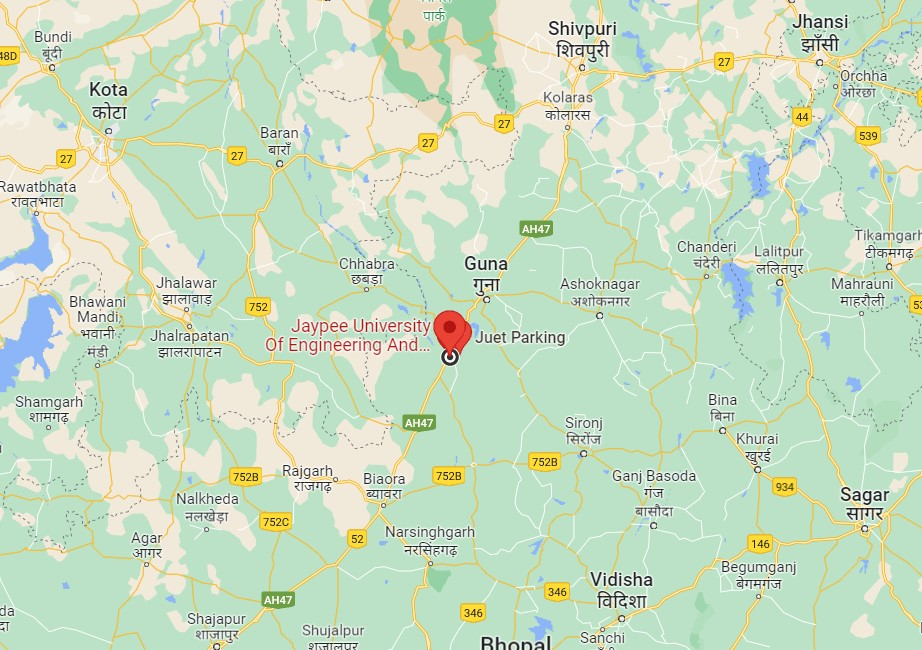
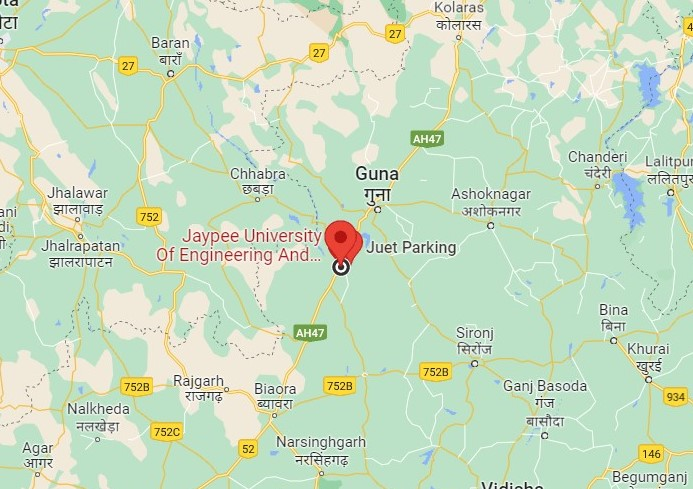
Fixed a few Design structural flaws and made a few visual changes

diff --git a/CSS/home.css b/CSS/home.css
@@ -1,9 +1,17 @@
 /* * { border: 1px solid white; } */
 
 /* Landing Image */
-.land-image {
+/* .land-image {
     width: 60%;
-    margin-left: 20%;
+    /* margin-left: 20%; 
+} */
+.land-image{
+    width: 100%;
+    text-align: center;
+}
+.land-image img{
+    margin: auto;
+    width: 60%;
 }
 
 /* Who We Are? */
@@ -128,7 +136,7 @@
 .ab-c{
     display: flex;
     flex-direction: row;
-    padding: 1rem 3rem;
+    padding: 3rem 3rem;
     margin: 10rem 4%;
     align-items: center;
     justify-content: center;
@@ -144,8 +152,12 @@
     line-height: 2.5.rem;
     margin: 1.2rem 0;
 }
-.ab-c img{
-    width: 100%;
-    border-radius: 36px;
+.ab-c-img{
+    overflow: hidden;
+    width: 60%;
     margin: 1rem;
+}
+.ab-c .ab-c-img a img{
+    max-width: 100%;
+    border-radius: 36px;
 }

diff --git a/pages/error.html b/pages/error.html
@@ -22,12 +22,12 @@
             <p>VRARMR@JUET</p>
         </div>
         <section class="header-inner">
-            <a id="cur_page" href="../index.html">Home</a>
-            <a href="./error.html">Projects</a>
-            <a href="./error.html">Events</a>
-            <a href="./error.html">The Techfest</a>
-            <a href="./error.html">Blogs</a>
-            <a href="./error.html">About Us</a>
+            <a href="../index.html">Home</a>
+            <a href="#">Projects</a>
+            <a href="#">Events</a>
+            <a href="#">The Techfest</a>
+            <a href="#">Blogs</a>
+            <a href="#">About Us</a>
         </section>
     </header>
     <div class="svg_box">

diff --git a/index.html b/index.html
@@ -37,8 +37,8 @@
 </header>
 <main>
   <!-- Landing Head Scene -->
-  <div >
-    <img class="land-image" src="./assets/Head.png" alt="">
+  <div class="land-image" >
+    <img src="./assets/Head.png" alt="">
   </div>
   <!-- Who WE ARE? -->
   <section class="whoweare">
@@ -104,7 +104,7 @@
         <p>C5M6+W9J, Mumbai - Agra National Hwy, Raghogarh -Vijaypur, Madhya Pradesh 473226</p>
       </a>
     </span>
-    <span>
+    <span class="ab-c-img">
       <a href="https://goo.gl/maps/4epGEroQuoMGrpZr8">
         <img src="./assets/map.jpg" alt="MAP of JUET">
       </a>

diff --git a/index.css b/index.css
@@ -3,6 +3,11 @@
   color: aliceblue;
   font-family: sans-serif;
 }
+
+html::-webkit-scrollbar {
+  display: none;
+}
+
 html {
   margin: 0px;
   padding: 0px;
